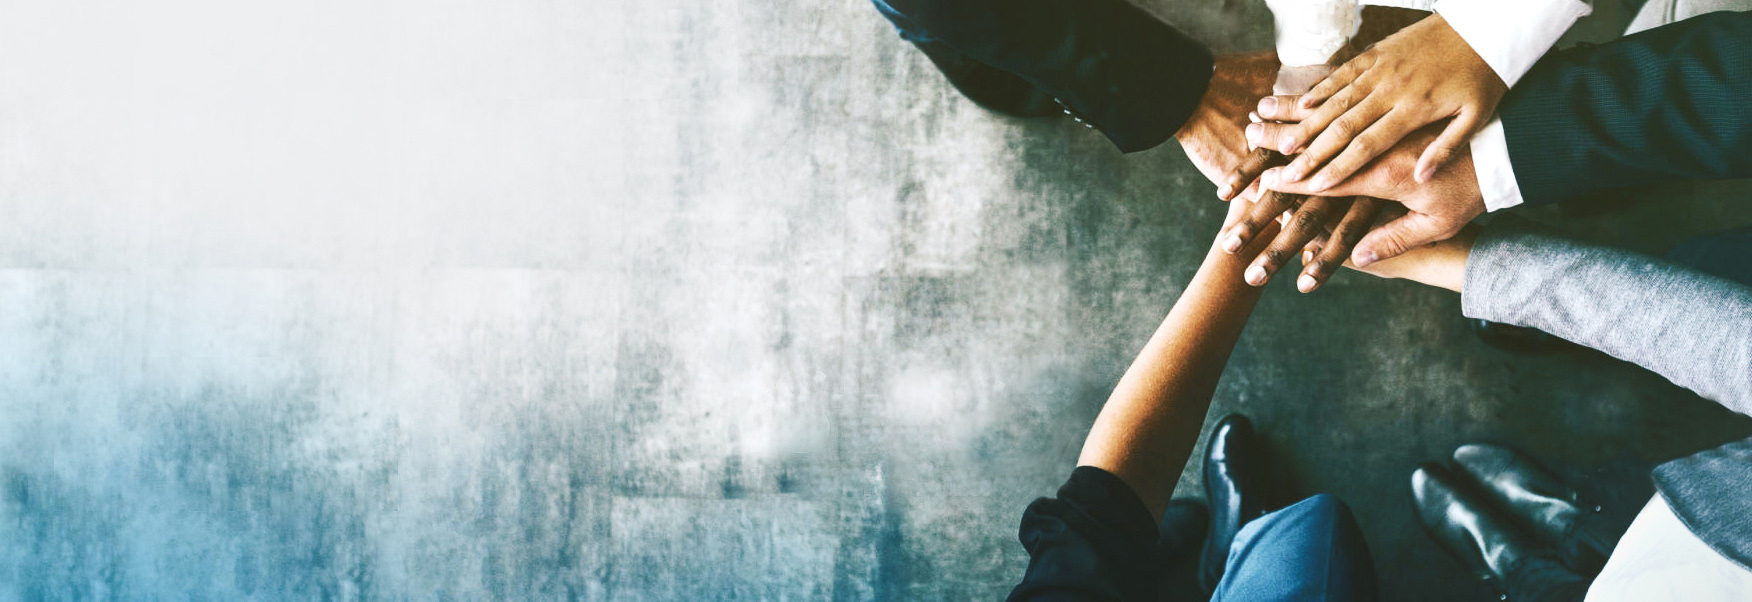
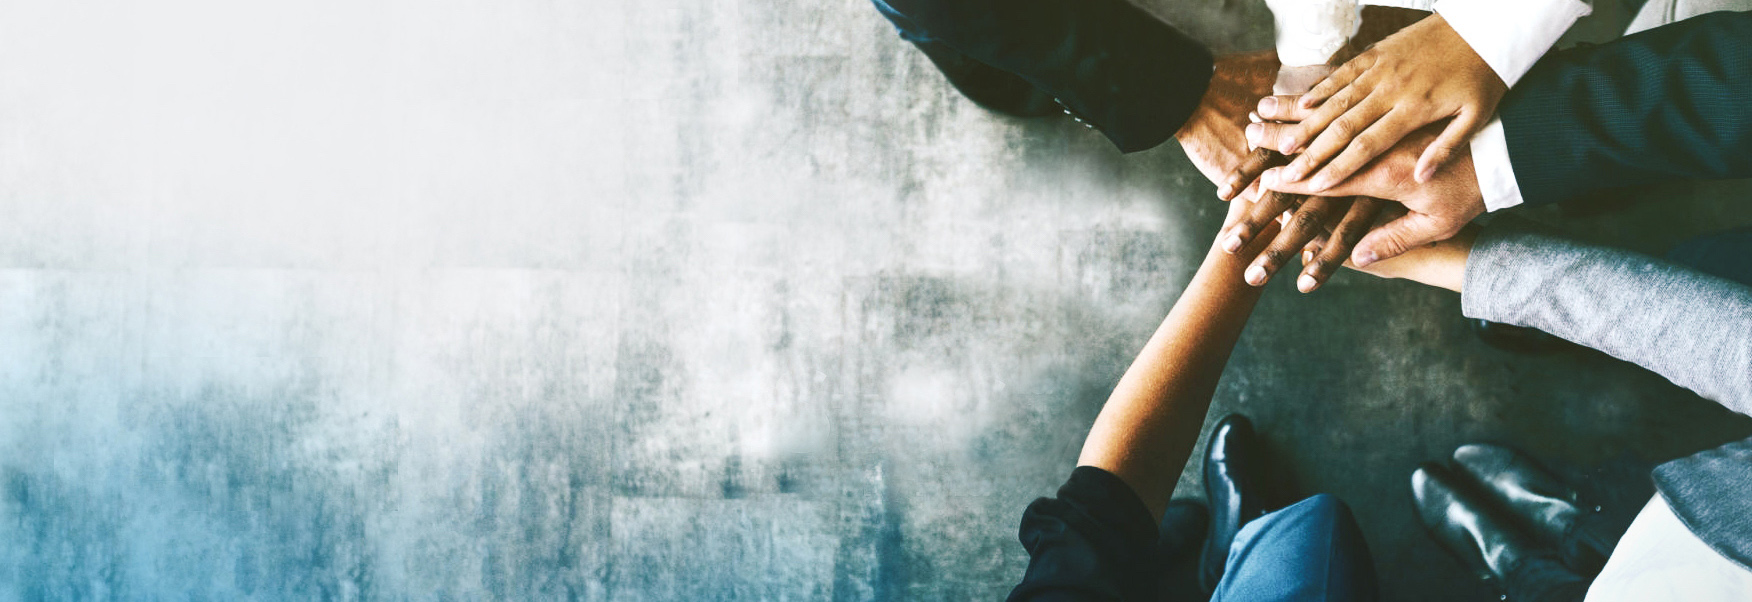
enlarged background image

Changed region(s): [[0.524, 0.2392, 0.6781, 0.5681], [0.4932, 0.299, 0.524, 0.4186]]

diff --git a/Boundless/styles.css b/Boundless/styles.css
@@ -89,18 +89,25 @@ footer p {
 }
 @media only screen and (max-width: 768px) {
     #logo {
-        margin: 31% 0 0% 10%;
+        margin: 25% 0 0% 10%;
         width: 60vw;
+    }
+    #background-image-container {
+        width: 50vw;
+        height: 75vh;
+        overflow: hidden;
     }
     #background {
         box-shadow: 2vw 2vw 2vw lightgrey;
-        width: 445vw;
-        height: 86vh;
-        top: -17%;
-        left: -244%;
+        width: 543vw;
+        height: 118vh;
+        top: -15%;
+        left: -300%;
+        position: fixed;
     }
     .header-title {
         margin-left: 0;
+        margin-top: -69vh;
     }
     h1 {
         margin-top: 4%;

diff --git a/Boundless/index.html b/Boundless/index.html
@@ -10,7 +10,9 @@
 </head>
 <body>
     <div class="header">
-        <img src="images/HandsBackground-short.jpg" id="background" alt="hands together showing teamwork">
+        <div id="background-image-container">
+            <img src="images/HandsBackground-short.jpg" id="background" alt="hands together showing teamwork">
+        </div>
         <div class="header-title">
             <img src="images/logo-large.png" id="logo" alt="BoxIt logo">
             <h1>Welcome to the BoxIt
